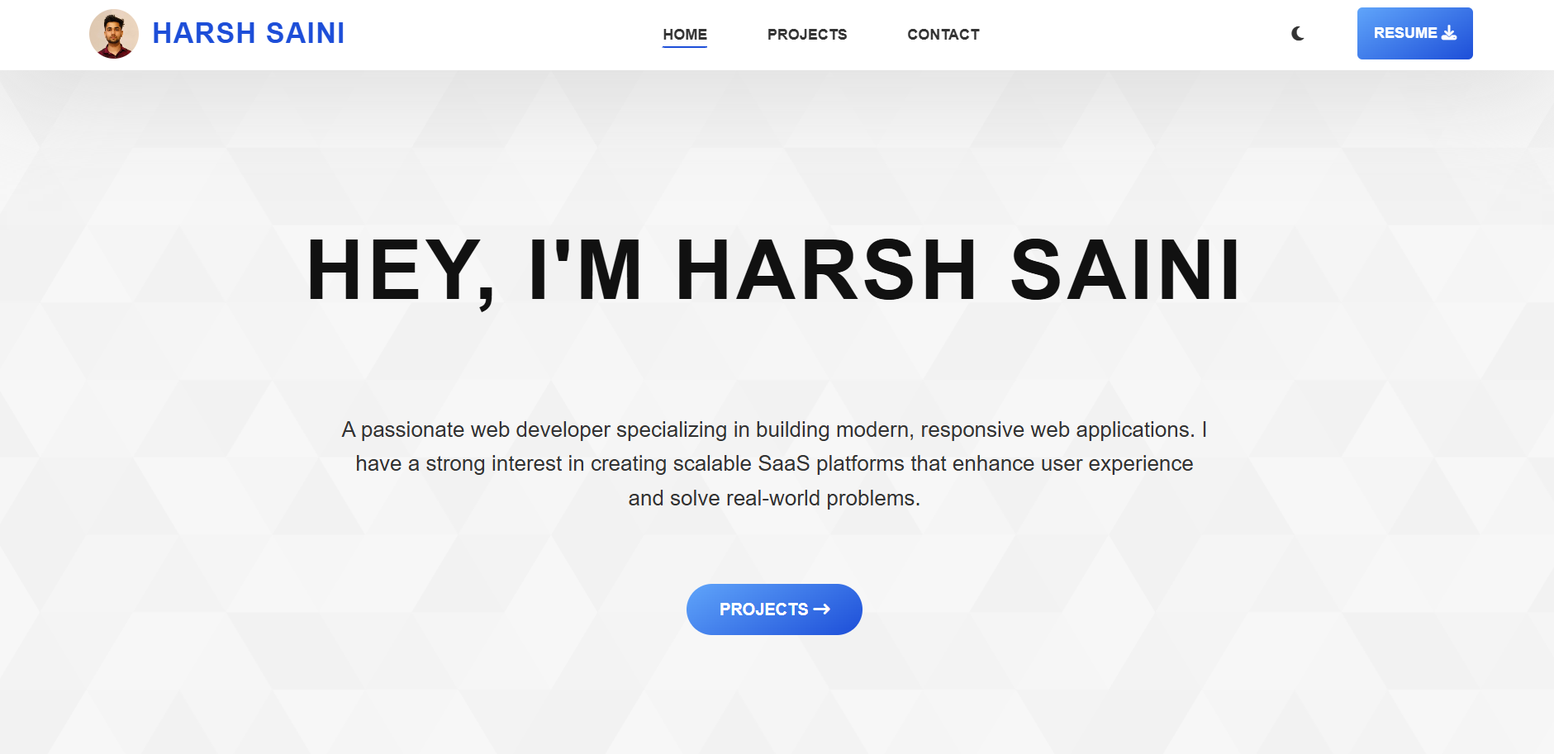
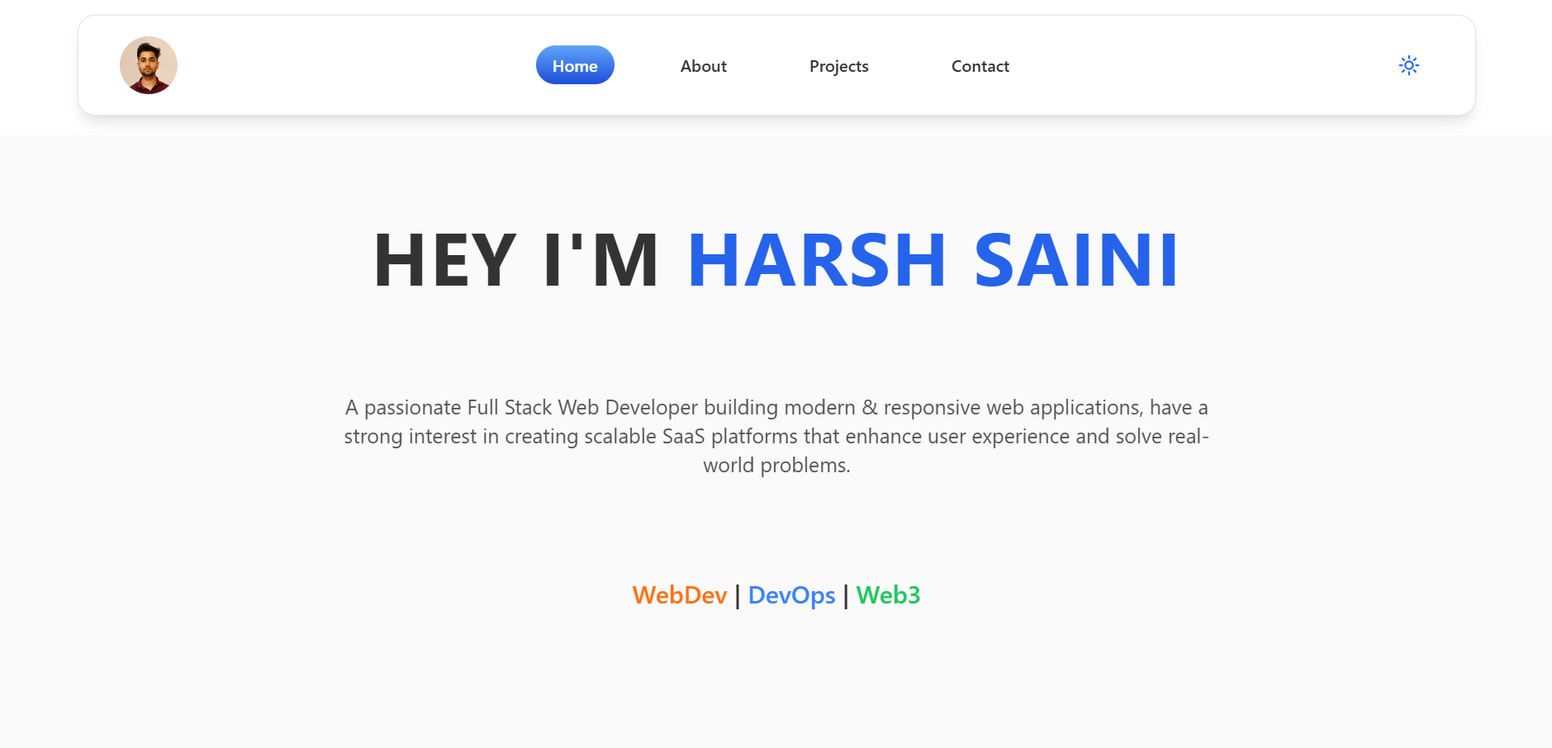
https://github.com/sainiharshsaini/HARSH-SAINI-PORTFOLIO-WEBSITE

diff --git a/src/components/home/HomeSkills.jsx b/src/components/home/HomeSkills.jsx
@@ -1,14 +1,26 @@
 import React from 'react'
 
-import HtmlIcon from '../../assets/icons/HTML_icon.svg'
-import CSSIcon from '../../assets/icons/CSS_icon.svg'
-import JSIcon from '../../assets/icons/JS_icon.svg'
-import GitIcon from '../../assets/icons/Git_icon.svg'
-import GithubIcon from '../../assets/icons/Github_icon.svg'
-import VSCodeIcon from '../../assets/icons/VSCode_icon.svg'
-import ReactIcon from '../../assets/icons/React_icon.svg'
-import ExpressIcon from '../../assets/icons/Express_icon.svg'
-import NodeIcon from '../../assets/icons/Node_icon.svg'
+import HtmlIcon from '../../assets/icons/icons8-html-48.png'
+import CSSIcon from '../../assets/icons/icons8-css-48.png'
+import JSIcon from '../../assets/icons/icons8-javascript-48.png'
+import ReactIcon from '../../assets/icons/icons8-react-js-48.png'
+import GitIcon from '../../assets/icons/icons8-git-48.png'
+import GithubIcon from '../../assets/icons/icons8-github-48.png'
+import VSCodeIcon from '../../assets/icons/icons8-vs-code-48.png'
+import ExpressIcon from '../../assets/icons/icons8-express-js-40.png'
+import NodeIcon from '../../assets/icons/icons8-node-js-48.png'
+import MongoDBIcon from '../../assets/icons/icons8-mongodb-48.png'
+import TypescriptIcon from '../../assets/icons/icons8-typescript-48.png'
+import TailwindCSSIcon from '../../assets/icons/icons8-tailwind-css-48.png'
+import PostmanIcon from '../../assets/icons/icons8-postman-api-64.png'
+import SassIcon from '../../assets/icons/icons8-sass-48.png'
+import MySQLIcon from '../../assets/icons/icons8-mysql-48.png'
+import JupyterIcon from '../../assets/icons/icons8-project-jupyter-48.png'
+import PythonIcon from '../../assets/icons/icons8-python-48.png'
+import CIcon from '../../assets/icons/icons8-c-programming-48.png'
+import CppIcon from '../../assets/icons/icons8-c++-48.png'
+import JavaIcon from '../../assets/icons/icons8-java-48.png'
+
 import SkillsType from './SkillsType'
 
 const HomeSkills = () => {
@@ -21,18 +33,18 @@ const HomeSkills = () => {
             { id: 1, techName: 'HTML', icon: HtmlIcon },
             { id: 2, techName: 'CSS', icon: CSSIcon },
             { id: 3, techName: 'JavaScript', icon: JSIcon },
-            { id: 4, techName: 'TypeScript', icon: 'https://d3sxshmncs10te.cloudfront.net/icon/free/svg/1175078.svg?token=eyJhbGciOiJoczI1NiIsImtpZCI6ImRlZmF1bHQifQ__.eyJpc3MiOiJkM3N4c2htbmNzMTB0ZS5jbG91ZGZyb250Lm5ldCIsImV4cCI6MTczMDkxNzc3MSwicSI6bnVsbCwiaWF0IjoxNzMwNjU4NTcxfQ__.443971d2fcd76ac4dcfa931c39c0430c6fd42e3d0f4b639fb7ea370773c00cda' },
-            { id: 5, techName: 'Python', icon: 'https://d3sxshmncs10te.cloudfront.net/icon/free/svg/2945099.svg?token=eyJhbGciOiJoczI1NiIsImtpZCI6ImRlZmF1bHQifQ__.eyJpc3MiOiJkM3N4c2htbmNzMTB0ZS5jbG91ZGZyb250Lm5ldCIsImV4cCI6MTczMDkxNzY2OCwicSI6bnVsbCwiaWF0IjoxNzMwNjU4NDY4fQ__.92d03872ae9d8f2c97e637476c0c44ab52b56c75de6eca4a8c01535f374fd562' },
-            { id: 6, techName: 'Java', icon: 'https://d3sxshmncs10te.cloudfront.net/icon/free/svg/1174952.svg?token=eyJhbGciOiJoczI1NiIsImtpZCI6ImRlZmF1bHQifQ__.eyJpc3MiOiJkM3N4c2htbmNzMTB0ZS5jbG91ZGZyb250Lm5ldCIsImV4cCI6MTczMDkxNzUzNCwicSI6bnVsbCwiaWF0IjoxNzMwNjU4MzM0fQ__.da99ce2aaf68b1fbe0e10fdb695e34b9d402a12cdcdb77f982d71deb8dd2b789' },
-            { id: 7, techName: 'C++', icon: 'https://d3sxshmncs10te.cloudfront.net/icon/free/svg/226082.svg?token=eyJhbGciOiJoczI1NiIsImtpZCI6ImRlZmF1bHQifQ__.eyJpc3MiOiJkM3N4c2htbmNzMTB0ZS5jbG91ZGZyb250Lm5ldCIsImV4cCI6MTczMDkxNzYyNCwicSI6bnVsbCwiaWF0IjoxNzMwNjU4NDI0fQ__.3f90e4e3f1c706050a854a02a6651da62f42059b898bef7ec2c40afaba6c5731' },
-            { id: 8, techName: 'C', icon: 'https://d3sxshmncs10te.cloudfront.net/icon/free/svg/1175191.svg?token=eyJhbGciOiJoczI1NiIsImtpZCI6ImRlZmF1bHQifQ__.eyJpc3MiOiJkM3N4c2htbmNzMTB0ZS5jbG91ZGZyb250Lm5ldCIsImV4cCI6MTczMDkxNzU4OCwicSI6bnVsbCwiaWF0IjoxNzMwNjU4Mzg4fQ__.67b051b80fbf9383d826c4d4fa9be4a35034761f4982868ec8fd240490fe06ce' },
-            { id: 9, techName: 'Sass', icon: 'https://d3sxshmncs10te.cloudfront.net/icon/free/svg/1175092.svg?token=eyJhbGciOiJoczI1NiIsImtpZCI6ImRlZmF1bHQifQ__.eyJpc3MiOiJkM3N4c2htbmNzMTB0ZS5jbG91ZGZyb250Lm5ldCIsImV4cCI6MTczMDkxNzg1NywicSI6bnVsbCwiaWF0IjoxNzMwNjU4NjU3fQ__.6aae120e4ce147cb89ac6bc7711be90c6c99273e336b45c0a658ce3547cf140d' },
+            { id: 4, techName: 'TypeScript', icon: TypescriptIcon },
+            { id: 5, techName: 'Python', icon: PythonIcon },
+            { id: 6, techName: 'Java', icon: JavaIcon },
+            { id: 7, techName: 'C++', icon: CppIcon },
+            { id: 8, techName: 'C', icon: CIcon },
+            { id: 9, techName: 'Sass', icon: SassIcon },
           ]}
         />
         <SkillsType skillType='Libraries & Frameworks'
           techType={[
             { id: 1, techName: 'Reactjs', icon: ReactIcon },
-            { id: 2, techName: 'Tailwind CSS', icon: 'https://d3sxshmncs10te.cloudfront.net/icon/free/svg/4406745.svg?token=eyJhbGciOiJoczI1NiIsImtpZCI6ImRlZmF1bHQifQ__.eyJpc3MiOiJkM3N4c2htbmNzMTB0ZS5jbG91ZGZyb250Lm5ldCIsImV4cCI6MTczMDkxNzkxMSwicSI6bnVsbCwiaWF0IjoxNzMwNjU4NzExfQ__.dc1a48c267286ef2deb9cc61bacd1f55c6e2432d3ed411d82dfb0af52d2832df' }
+            { id: 2, techName: 'Tailwind CSS', icon: TailwindCSSIcon }
           ]}
         />
         <SkillsType skillType='Backend'
@@ -43,16 +55,17 @@ const HomeSkills = () => {
         />
         <SkillsType skillType='Databases & ORMs'
           techType={[
-            { id: 1, techName: 'MongoDB', icon: 'https://d3sxshmncs10te.cloudfront.net/icon/free/svg/1175139.svg?token=eyJhbGciOiJoczI1NiIsImtpZCI6ImRlZmF1bHQifQ__.eyJpc3MiOiJkM3N4c2htbmNzMTB0ZS5jbG91ZGZyb250Lm5ldCIsImV4cCI6MTczMDkxODAyNywicSI6bnVsbCwiaWF0IjoxNzMwNjU4ODI3fQ__.bb844d6bc4a5280aa3529d587ee93e37cdbccb1e4434cd2627355306aa5888a2' },
-            { id: 2, techName: 'MySQL', icon: 'https://d3sxshmncs10te.cloudfront.net/icon/free/svg/2945040.svg?token=eyJhbGciOiJoczI1NiIsImtpZCI6ImRlZmF1bHQifQ__.eyJpc3MiOiJkM3N4c2htbmNzMTB0ZS5jbG91ZGZyb250Lm5ldCIsImV4cCI6MTczMDkxNzQ1NiwicSI6bnVsbCwiaWF0IjoxNzMwNjU4MjU2fQ__.9bcc7b32c989eb30a08e5355273b0b7b2e938d79a2c89f98e2df274a2244861b' }
+            { id: 1, techName: 'MongoDB', icon: MongoDBIcon },
+            { id: 2, techName: 'MySQL', icon: MySQLIcon }
           ]}
         />
         <SkillsType skillType='Tools & Technologies'
           techType={[
             { id: 1, techName: 'Git', icon: GitIcon },
             { id: 2, techName: 'Github', icon: GithubIcon },
-            { id: 3, techName: 'Postman', icon: 'https://d3sxshmncs10te.cloudfront.net/icon/free/svg/2945092.svg?token=eyJhbGciOiJoczI1NiIsImtpZCI6ImRlZmF1bHQifQ__.eyJpc3MiOiJkM3N4c2htbmNzMTB0ZS5jbG91ZGZyb250Lm5ldCIsImV4cCI6MTczMDkxNzI4NiwicSI6bnVsbCwiaWF0IjoxNzMwNjU4MDg2fQ__.cf8e0175b37497888a9bfb372150b684806f9900cda1ceb0958e9e306922d078' },
-            { id: 4, techName: 'VSCode', icon: VSCodeIcon }
+            { id: 3, techName: 'Postman', icon: PostmanIcon },
+            { id: 4, techName: 'VSCode', icon: VSCodeIcon },
+            { id: 5, techName: 'Jupyter Notebook', icon: JupyterIcon }
           ]}
         />
       </div>

diff --git a/src/PortfolioData.js b/src/PortfolioData.js
@@ -1,14 +1,18 @@
 import countryImg from './assets/projectImages/countryImg.png'
 import PortfolioImg from './assets/projectImages/HarshPortfolio.png'
 
-import htmlIcon from './assets/icons/HTML_icon.svg'
-import cssIcon from './assets/icons/CSS_icon.svg'
-import jsIcon from './assets/icons/JS_icon.svg'
-import reactIcon from './assets/icons/React_icon.svg'
-import bootstrapIcon from './assets/icons/Bootstrap_icon.svg'
-import nodeIcon from './assets/icons/Node_icon.svg'
-import expressIcon from './assets/icons/Express_icon.svg'
-import mongodbIcon from './assets/icons/MongoDB_icon.svg'
+import HtmlIcon from './assets/icons/icons8-html-48.png'
+import CssIcon from './assets/icons/icons8-css-48.png'
+import JsIcon from './assets/icons/icons8-javascript-48.png'
+import ReactIcon from './assets/icons/icons8-react-js-48.png'
+import ExpressIcon from './assets/icons/icons8-express-js-40.png'
+import NodeIcon from './assets/icons/icons8-node-js-48.png'
+import MongoDBIcon from './assets/icons/icons8-mongodb-48.png'
+import TypescriptIcon from './assets/icons/icons8-typescript-48.png'
+import TailwindCSSIcon from './assets/icons/icons8-tailwind-css-48.png'
+import SassIcon from './assets/icons/icons8-sass-48.png'
+import MySQLIcon from './assets/icons/icons8-mysql-48.png'
+import PythonIcon from './assets/icons/icons8-python-48.png'
 
 export default [
     {
@@ -19,19 +23,19 @@ export default [
         techUsed: [
             {
                 id: crypto.randomUUID(),
-                icon: htmlIcon,
+                icon: HtmlIcon,
             },
             {
                 id: crypto.randomUUID(),
-                icon: cssIcon,
+                icon: CssIcon,
             },
             {
                 id: crypto.randomUUID(),
-                icon: jsIcon,
+                icon: JsIcon,
             },
             {
                 id: crypto.randomUUID(),
-                icon: reactIcon,
+                icon: ReactIcon,
             },
         ],
         deployLink: 'https://countriesappbyharsh.netlify.app/',
@@ -45,22 +49,26 @@ export default [
         techUsed: [
             {
                 id: crypto.randomUUID(),
-                icon: htmlIcon,
+                icon: HtmlIcon,
             },
             {
                 id: crypto.randomUUID(),
-                icon: cssIcon,
+                icon: CssIcon,
             },
             {
                 id: crypto.randomUUID(),
-                icon: jsIcon,
+                icon: JsIcon,
             },
             {
                 id: crypto.randomUUID(),
-                icon: reactIcon,
+                icon: ReactIcon,
+            },
+            {
+                id: crypto.randomUUID(),
+                icon: TailwindCSSIcon,
             },
         ],
         deployLink: 'https://www.harshsaini.tech/',
-        githubLink: 'https://github.com/sainiharshsaini/HARSH-SAINI-TECH',
+        githubLink: 'https://github.com/sainiharshsaini/HARSH-SAINI-PORTFOLIO-WEBSITE',
     },
 ]

diff --git a/src/components/about/AboutIntro.jsx b/src/components/about/AboutIntro.jsx
@@ -1,12 +1,12 @@
 import React from 'react'
 import { Link } from 'react-router-dom'
-import HarshResume from '../../assets/HarshResume.png' 
+import HarshResume from '../../assets/HarshResume.png'
 
 const AboutIntro = () => {
     return (
         <section className='flex justify-center items-center px-8 py-12 md:py-20 text-lightTextPrimary dark:text-darkTextPrimary'>
             <div className='flex flex-col justify-between items-center gap-12 md:gap-20'>
-                <h1 className='text-3xl font-medium text-blue-700 md:text-5xl lg:text-8xl lg:font-bold'>ABOUT ME</h1>
+                <h1 className='text-3xl font-bold text-blue-700 md:text-5xl lg:text-8xl'>ABOUT ME</h1>
                 <p className='text-base md:w-3/4 lg:text-lg pl-2'>
                     As a Passionate <b>Full Stack Web Developer</b>, I thrive on building intuitive, efficient, and scalable <b>Web Applications</b> that make a real impact. With expertise in both <span className='text-blue-600'>frontend</span> and <span className='text-blue-600'>backend</span> development, I bring ideas to life using modern technologies. Whether it's creating seamless user interfaces or designing robust server-side logic.
                     <br /><br />
@@ -16,9 +16,9 @@ const AboutIntro = () => {
                     <br /><br />
                     Let’s build something amazing together!
                 </p>
-                <div className='flex justify-between items-center gap-8 md:gap-12 mt-4 w-full md:w-3/5 lg:w-2/5'>
-                    <Link className='bg-gradient-to-b from-blue-400 to-blue-800 w-1/2 text-center text-white rounded-md py-4 px-8 text-base md:text-lg md:font-medium transition ease-in-out hover:-translate-x-0.5 hover:scale-110 duration-300' to={HarshResume} target="_blank" download>Resume <i className="fa-solid fa-download"></i></Link>
-                    <Link className='bg-gradient-to-b from-blue-400 to-blue-800 w-1/2 text-center text-white rounded-md py-4 px-8 text-base md:text-lg md:font-medium transition ease-in-out hover:-translate-x-0.5 hover:scale-110 duration-300' to="/contact">Contact me!</Link>
+                <div className='flex justify-between items-center gap-6 md:gap-12 mt-4 w-full md:w-3/5 lg:w-2/5'>
+                    <Link className='bg-gradient-to-b from-blue-400 to-blue-800 w-1/2 text-center text-white rounded-md p-4 text-base md:text-lg md:font-medium transition ease-in-out hover:-translate-x-0.5 hover:scale-110 duration-300' to={HarshResume} target="_blank" download>Resume <i className="fa-solid fa-download"></i></Link>
+                    <Link className='bg-gradient-to-b from-blue-400 to-blue-800 w-1/2 text-center text-white rounded-md p-4 text-base md:text-lg md:font-medium transition ease-in-out hover:-translate-x-0.5 hover:scale-110 duration-300' to="/contact">Contact me!</Link>
                 </div>
             </div>
         </section>

diff --git a/src/components/projects/Projects.jsx b/src/components/projects/Projects.jsx
@@ -5,7 +5,7 @@ import ProjectData from '../.././PortfolioData'
 const Projects = () => {
   return (
     <section className='flex justify-between items-center flex-col py-20 px-5 gap-20 md:px-10 md:gap-28 text-lightTextPrimary dark:text-darkTextPrimary'>
-      { 
+      {
         ProjectData.map(({ id, projectImg, projectName, aboutProject, techUsed, deployLink, githubLink }) => (
           <div className='p-4 rounded-md bg-slate-300 dark:bg-slate-900 border-t-4 border-t-blue-600 dark:border-t-blue-500 border-r-2 border-b-2 border-slate-400 dark:border-slate-600 shadow-sm lg:w-3/4' key={id}>
             <div className='flex flex-col justify-between gap-8 md:flex-row '>
@@ -13,16 +13,16 @@ const Projects = () => {
               <div className='flex flex-col justify-between lg:justify-evenly gap-6 md:w-1/2'>
                 <h3 className='text-xl md:text-2xl font-semibold text-blue-600 dark:text-blue-500'>{projectName}</h3>
                 <p className='text-base'>{aboutProject}</p>
-                <div className='flex items-center gap-4'>
+                <div className='flex items-center gap-3'>
                   {
                     techUsed.map(({ id, icon }) => (
-                      <img className='w-6' src={icon} key={id} />
+                      <img className='w-7' src={icon} key={id} />
                     ))
                   }
                 </div>
                 <div className='flex justify-between items-center gap-4'>
-                  <Link className='py-1 px-4 w-2/4 text-sm text-center bg-gradient-to-b from-blue-400 to-blue-700 hover:from-slate-400 hover:to-slate-700 rounded-sm text-white font-medium' to={githubLink}><i className="fa-brands fa-github"></i> SOURCE CODE</Link>
-                  <Link className='py-1 px-4 w-2/4 text-sm text-center bg-gradient-to-b from-blue-400 to-blue-700 hover:from-slate-400 hover:to-slate-700 rounded-sm text-white font-medium' to={deployLink}><i className="fa-solid fa-eye"></i>  VIEW PROJECT</Link>
+                  <Link className='py-1 px-4 w-2/4 text-sm text-center bg-gradient-to-b from-blue-400 to-blue-700 hover:from-slate-400 hover:to-slate-700 rounded-sm text-white font-medium' to={githubLink} target='_blank'><i className="fa-brands fa-github"></i> SOURCE CODE</Link>
+                  <Link className='py-1 px-4 w-2/4 text-sm text-center bg-gradient-to-b from-blue-400 to-blue-700 hover:from-slate-400 hover:to-slate-700 rounded-sm text-white font-medium' to={deployLink} target='_blank'><i className="fa-solid fa-eye"></i> VIEW PROJECT</Link>
                 </div>
               </div>
             </div>

diff --git a/src/components/contact/ContactLinks.jsx b/src/components/contact/ContactLinks.jsx
@@ -5,10 +5,10 @@ const ContactLinks = () => {
     return (
         <section className='text-lightTextPrimary dark:text-darkTextPrimary'>
             <div className='flex justify-center items-center pb-20'>
-                <ul className='grid grid-cols-1 md:grid-cols-2 gap-4 md:gap-8 text-xl font-semibold w-3/4 lg:w-3/5'>
+                <ul className='grid grid-cols-1 md:grid-cols-2 md:gap-4 text-xl font-semibold w-3/4 lg:w-3/5'>
                     <li className='p-4 text-green-500'>
                         <Link className='ring-1 py-4 rounded-full ring-blue-600 dark:ring-blue-900 flex justify-center items-center gap-2 shadow-md hover:bg-gradient-to-b hover:from-blue-400 hover:to-blue-800 hover:ring-0 hover:text-white' to="https://wa.me/qr/4AD67ER2Z2ZRD1" target='_blank'><i className="fa-brands fa-whatsapp text-2xl"></i> WhatsApp</Link>
-                    </li> 
+                    </li>
                     <li className='p-4 text-blue-500'>
                         <Link className='ring-1 py-4 rounded-full ring-blue-600 dark:ring-blue-900 flex justify-center items-center gap-2 shadow-md hover:bg-gradient-to-b hover:from-blue-400 hover:to-blue-800 hover:ring-0 hover:text-white' to="https://www.linkedin.com/in/harsh-saini-158709238" target='_blank'><i className="fa-brands fa-linkedin-in text-2xl"></i> Linkedin</Link>
                     </li>
@@ -18,7 +18,7 @@ const ContactLinks = () => {
                     <li className='p-4 text-gray-600'>
                         <Link className='ring-1 py-4 rounded-full ring-blue-600 dark:ring-blue-900 flex justify-center items-center gap-2 shadow-md hover:bg-gradient-to-b hover:from-blue-400 hover:to-blue-800 hover:ring-0 hover:text-white' to="https://github.com/sainiharshsaini" target='_blank'><i className="fa-brands fa-github text-2xl"></i> Github</Link>
                     </li>
-                    <li className='p-4 text-violet-600'>
+                    <li className='p-4 text-violet-800'>
                         <Link className='ring-1 py-4 rounded-full ring-blue-600 dark:ring-blue-900 flex justify-center items-center gap-2 shadow-md hover:bg-gradient-to-b hover:from-blue-400 hover:to-blue-800 hover:ring-0 hover:text-white' to="https://discordapp.com/users/1198107407360991372" target='_blank'><i className="fa-brands fa-discord text-2xl"></i> Discord</Link>
                     </li>
                     <li className='p-4 text-blue-400'>

diff --git a/src/layout/Footer.jsx b/src/layout/Footer.jsx
@@ -4,7 +4,7 @@ import HarshProfile from "../assets/HarshProfile.jpg"
 
 const Footer = () => {
   return (
-    <footer className='border-t border-slate-300 dark:border-slate-800 py-8 lg:pt-12 px-10 text-lightTextPrimary dark:text-darkTextPrimary'>
+    <footer className='border-t border-slate-300 dark:border-slate-800 p-8 lg:pt-12 text-lightTextPrimary dark:text-darkTextPrimary'>
       <div className='flex flex-col gap-8 lg:gap-12 lg:px-10 lg:pt-5'>
         <div className='flex flex-col-reverse gap-10 lg:flex-row lg:justify-evenly'>
           <div className=' flex flex-col justify-between items-center gap-6'>
@@ -22,16 +22,16 @@ const Footer = () => {
               <p className='py-4 text-2xl leading-10'>Get in touch with me via <span className='text-blue-600 dark:text-blue-500 font-semibold'>Social Media</span>.</p>
               <ul className='flex justify-start items-center py-4 gap-6 md:gap-8 text-3xl'>
                 <li>
-                  <Link to="https://www.linkedin.com/in/harsh-saini-158709238"><i className="fa-brands fa-linkedin-in hover:text-blue-500"></i></Link>
+                  <Link to="https://www.linkedin.com/in/harsh-saini-158709238" target='_blank'><i className="fa-brands fa-linkedin-in hover:text-blue-500"></i></Link>
                 </li>
                 <li>
-                  <Link to="https://x.com/harshsaini_18?t=_zx6F5EH11KJBifgNn7TxA&s=09"><i className="fa-brands fa-twitter hover:text-blue-700"></i></Link>
+                  <Link to="https://x.com/harshsaini_18?t=_zx6F5EH11KJBifgNn7TxA&s=09" target='_blank'><i className="fa-brands fa-twitter hover:text-blue-700"></i></Link>
                 </li>
                 <li>
-                  <Link to="https://github.com/sainiharshsaini"><i className="fa-brands fa-github hover:text-gray-600"></i></Link>
+                  <Link to="https://github.com/sainiharshsaini" target='_blank'><i className="fa-brands fa-github hover:text-gray-600"></i></Link>
                 </li>
                 <li>
-                  <Link to="https://wa.me/qr/4AD67ER2Z2ZRD1"><i className="fa-brands fa-whatsapp hover:text-green-500"></i></Link>
+                  <Link to="https://wa.me/qr/4AD67ER2Z2ZRD1" target='_blank'><i className="fa-brands fa-whatsapp hover:text-green-500"></i></Link>
                 </li>
               </ul>
             </div>

diff --git a/src/components/home/HomeHero.jsx b/src/components/home/HomeHero.jsx
@@ -3,10 +3,10 @@ import React from 'react'
 const HomeHero = () => {
   return (
     <section className='flex justify-center items-center py-20 px-8 bg-lightBackground dark:bg-darkBackground text-lightTextPrimary dark:text-darkTextPrimary'>
-      <div className='flex justify-between flex-col items-center gap-16 lg:gap-24 lg:w-3/5'>
+      <div className='flex justify-between flex-col items-center gap-14 lg:gap-24 lg:w-3/5'>
         <div className='text-5xl md:text-6xl lg:text-7xl text-center font-bold tracking-wide leading-tight'>HEY I'M <span className='text-blue-600 dark:text-blue-500'>HARSH SAINI</span></div>
-        <div className='text-center text-lg lg:text-xl text-lightTextSecondary dark:text-darkTextSecondary'>A passionate web developer building modern & responsive web applications. I have a strong interest in creating scalable SaaS platforms that enhance user experience and solve real-world problems.</div>
-        <div className='text-xl lg:text-2xl font-medium'><span className='text-orange-500'>WebDev</span> | <span className='text-blue-500'>DevOps</span> | <span className='text-green-500'>Web3</span></div>
+        <div className='text-center text-lg lg:text-xl text-lightTextSecondary dark:text-darkTextSecondary'>A passionate Full Stack Web Developer building modern & responsive web applications, have a strong interest in creating scalable SaaS platforms that enhance user experience and solve real-world problems.</div>
+        <div className='text-xl lg:text-2xl font-medium text-center'><span className='text-orange-500'>WebDev</span> | <span className='text-blue-500'>DevOps</span> | <span className='text-green-500'>Web3</span></div>
       </div>
     </section>
   )

diff --git a/src/components/projects/ProjectsIntro.jsx b/src/components/projects/ProjectsIntro.jsx
@@ -2,11 +2,11 @@ import React from 'react'
 
 const ProjectsIntro = () => {
   return (
-    <section className='flex justify-center items-center px-6 py-16 md:p-20 text-lightTextPrimary dark:text-darkTextPrimary bg-slate-200 dark:bg-slate-950'>
+    <section className='flex justify-center items-center px-8 py-16 md:p-20 text-lightTextPrimary dark:text-darkTextPrimary bg-slate-200 dark:bg-slate-900'>
       <div className="flex justify-between flex-col items-center gap-8 md:gap-10 lg:gap-12">
         <h1 className='text-3xl md:text-4xl lg:text-5xl font-bold text-blue-600'>MY PROJECTS</h1>
         <h2 className='text-lg md:text-xl lg:text-2xl'>A Blend of <span className='text-blue-500 font-medium tracking-wide'>Creativity</span> and <span className='text-blue-500 font-medium tracking-wide'>Code</span></h2>
-        <p className='text-center text-base lg:w-3/4 leading-7 md:tracking-wide'>Explore a selection of my recent projects, each one representing a unique challenge and a testament to my skills in web development. From concept to completion, I am dedicated to delivering work that exceeds expectations, drives results, and tells a story. Every project is an opportunity to learn, grow, and push my craft further.</p>
+        <p className='text-center text-base lg:w-3/4 leading-7  md:tracking-wide'>Explore a selection of my recent projects, each one representing a unique challenge and a testament to my skills in web development. From concept to completion, I am dedicated to delivering work that exceeds expectations, drives results, and tells a story. Every project is an opportunity to learn, grow, and push my craft further.</p>
       </div>
     </section >
   )

diff --git a/src/layout/Header.jsx b/src/layout/Header.jsx
@@ -12,7 +12,7 @@ const Header = () => {
 
   return (
     <header className='sticky mx-auto wrapper top-0 z-50 flex items-center gap-2 p-5 w-full lg:px-20 text-lightTextPrimary dark:text-darkTextPrimary'>
-      <div className='flex flex-col w-full shadow-lg ring-1 ring-slate-200 dark:ring-slate-800 p-5 gap-5 rounded-2xl md:px-10 backdrop-blur-lg' style={{ opacity: 1, willChange: 'auto', transform: 'none' }}>
+      <div className='flex flex-col w-full shadow-lg ring-1 ring-slate-200 dark:ring-slate-800 p-5 gap-5 rounded-2xl md:px-10 backdrop-blur-md' style={{ opacity: 1, willChange: 'auto', transform: 'none' }}>
         <div className='flex w-full justify-between mx-auto'>
           <Link className='flex items-center gap-2 cursor-pointer' to="/">
             <img className='size-14 rounded-full' style={{ color: 'transparent' }} loading='lazy' decoding='async' width={300} height={200} src={HarshProfile} alt="HarshProfile" />
@@ -43,7 +43,7 @@ const Header = () => {
           </ul>
 
           <div className='flex gap-6'>
-            <ThemeToggle/>
+            <ThemeToggle />
             {/* Mobile Menu Toggle Icon */}
             <button className='text-blue-600 md:hidden' onClick={toggleMenuHandler}>
               {isMenuOpen ? <svg xmlns="http://www.w3.org/2000/svg" fill="none" viewBox="0 0 24 24" strokeWidth={2} stroke="currentColor" className="size-10">

diff --git a/src/components/about/EducationDetail.jsx b/src/components/about/EducationDetail.jsx
@@ -11,10 +11,10 @@ const EducationDetail = ({ CourseName, InstituteWebsite, InstituteName, CourseTi
                         {InstituteName}
                     </Link>
                 </h3>
-                <span className='text-lg font-medium text-lightTextSecondary dark:text-darkTextSecondary'>
+                <span className='text-base md:text-lg font-medium text-lightTextSecondary dark:text-darkTextSecondary'>
                     <i className="fa-solid fa-clock"></i> {CourseTimestamp}
                 </span>
-                <span className='text-lg font-medium text-lightTextSecondary dark:text-darkTextSecondary'>
+                <span className='text-base md:text-lg font-medium text-lightTextSecondary dark:text-darkTextSecondary'>
                     <i className="fa-solid fa-location-dot text-red-600"></i> {InstituteLocation}
                 </span>
             </div>

diff --git a/src/components/home/HomeProjects.jsx b/src/components/home/HomeProjects.jsx
@@ -3,19 +3,7 @@ import React from 'react'
 const HomeProjects = () => {
   return (
     <>
-    <div className='bg-[#FAFAFA]'>light</div>
-    <div className='bg-[#007AFF]'>light</div>
-    <div className='bg-[#FF6B6B]'>light</div>
-    <div className='bg-[#333333]'>light</div>
-    <div className='bg-[#555555]'>light</div>
-    <div className='bg-[#FFD500]'>light</div>
-
-    <div className='bg-[#121212]'>dark</div>
-    <div className='bg-[#00E5FF]'>dark</div>
-    <div className='bg-[#D81B60]'>dark</div>
-    <div className='bg-[#E0E0E0]'>dark</div>
-    <div className='bg-[#A1A1A1]'>dark</div>
-    <div className='bg-[#00FF7F]'>dark</div>
+      
     </>
   )
 }

diff --git a/src/components/home/TechType.jsx b/src/components/home/TechType.jsx
@@ -1,10 +1,10 @@
 import React from 'react'
 
-const TechType = ({tech, techIcon}) => {
+const TechType = ({ tech, techIcon }) => {
     return (
         <section className='z-20' style={{ opacity: 1, transform: 'none' }}>
             <div className='flex items-center gap-2 overflow-hidden rounded-lg ring-1 ring-blue-900 px-4 py-3 lg:px-5 lg:py-4 text-sm lg:text-base shadow-md text-lightTextSecondary dark:text-darkTextSecondary'>
-                <img className='w-5' src={techIcon} alt={tech} />
+                <img className='w-6' src={techIcon} alt={tech} />
                 <span className='font-medium'>{tech}</span>
             </div>
         </section>
